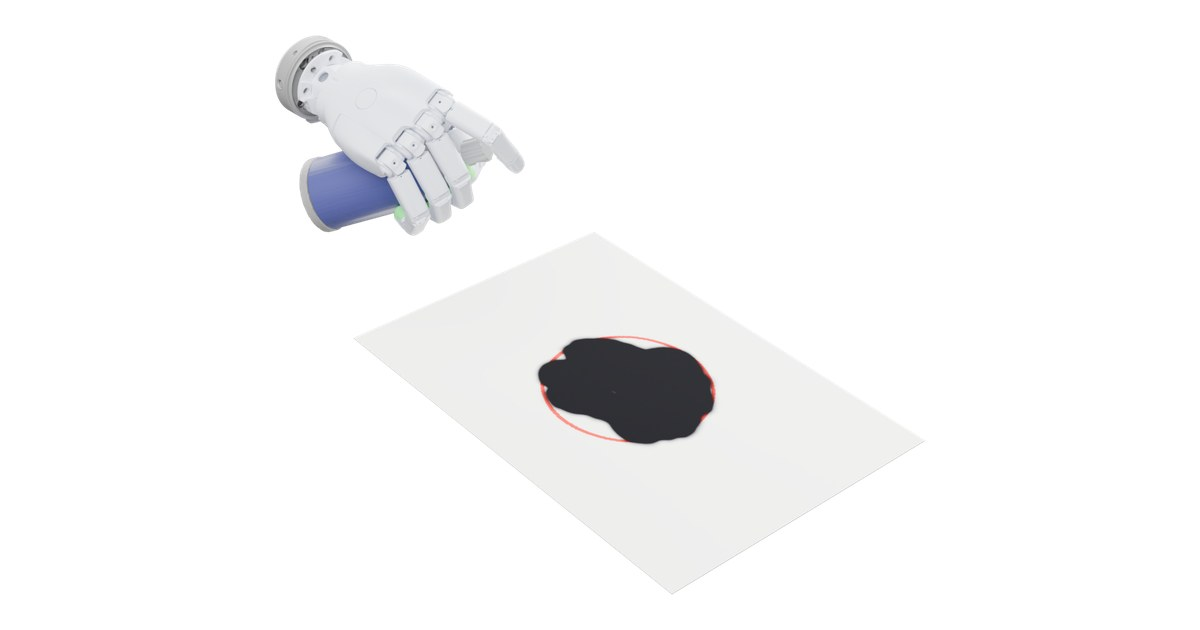
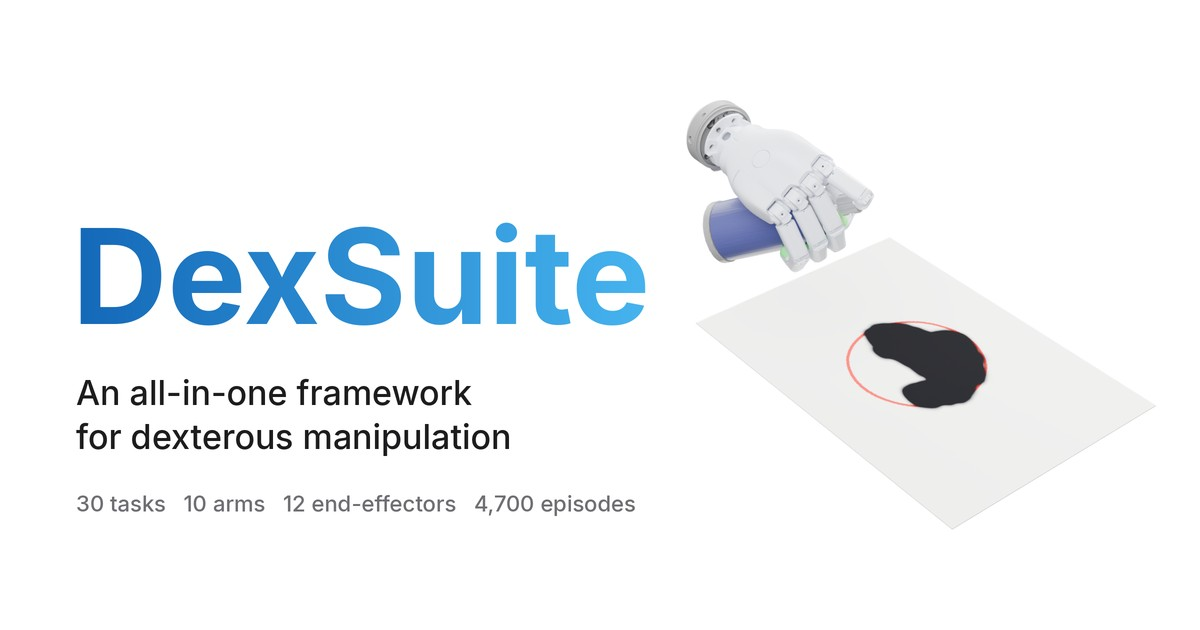
Link preview card (1200x630, wordmark + Sharpa render) with Open Graph and Twitter large-image tags; load-in: first hero frame preloaded at high priority, intro rises in once it and Inter are ready, hero frames stream coarse to fine six at a time, robot stills lazy and the Franka fly-in frames load 

diff --git a/index.html b/index.html
@@ -5,14 +5,24 @@
 <meta name="viewport" content="width=device-width, initial-scale=1">
 <title>DexSuite: An All-in-One Framework for Dexterous Manipulation Across Arms, Hands, and Tasks</title>
 <meta name="description" content="DexSuite: An All-in-One Framework for Dexterous Manipulation Across Arms, Hands, and Tasks. 30 tasks, 10 arms, 12 end-effectors, 16 benchmark task-embodiment pairs, 4,700 episodes.">
+<meta name="theme-color" content="#ffffff">
+<meta property="og:type" content="website">
+<meta property="og:url" content="https://dexsuiteorg.github.io/">
 <meta property="og:title" content="DexSuite">
-<meta property="og:description" content="An all-in-one simulation framework for dexterous manipulation.">
+<meta property="og:description" content="An all-in-one simulation framework for dexterous manipulation. 30 tasks, 10 arms, 12 end-effectors, 4,700 episodes.">
 <meta property="og:image" content="https://dexsuiteorg.github.io/v2/assets/og.jpg">
+<meta property="og:image:width" content="1200"><meta property="og:image:height" content="630">
+<meta property="og:image:alt" content="DexSuite: a Sharpa hand spray-paints a stencil">
+<meta name="twitter:card" content="summary_large_image">
+<meta name="twitter:title" content="DexSuite">
+<meta name="twitter:description" content="An all-in-one simulation framework for dexterous manipulation.">
+<meta name="twitter:image" content="https://dexsuiteorg.github.io/v2/assets/og.jpg">
 <link rel="icon" href="static/images/favicon.svg">
 <link rel="preconnect" href="https://fonts.googleapis.com"><link rel="preconnect" href="https://fonts.gstatic.com" crossorigin>
 <link href="https://fonts.googleapis.com/css2?family=Inter:wght@400;500;600;700&display=swap" rel="stylesheet">
+<link rel="preload" as="image" href="v2/assets/hero/scene/f0000.webp" fetchpriority="high">
 <link rel="stylesheet" href="v2/site.css">
-<script>window.V2 = {"hero": {"n": 239, "dir": "v2/assets/hero/scene"}, "phases": {"own": ["Robots", "Every arm.", "Robots that come with their own gripper run every task as they are."], "arm": ["Modular arms", "Every arm.", "Modular arms take any end-effector. Here, each one carries the same Robotiq 2F-85."], "hand": ["End-effectors", "Every hand.", "And every end-effector mounts on the same arm, from parallel-jaw grippers to a 22-joint hand."]}, "zoom": {"n": 40, "dir": "v2/assets/robots/zoom"}};</script>
+<script>document.documentElement.classList.add('js'); window.V2 = {"hero": {"n": 239, "dir": "v2/assets/hero/scene"}, "phases": {"own": ["Robots", "Every arm.", "Robots that come with their own gripper run every task as they are."], "arm": ["Modular arms", "Every arm.", "Modular arms take any end-effector. Here, each one carries the same Robotiq 2F-85."], "hand": ["End-effectors", "Every hand.", "And every end-effector mounts on the same arm, from parallel-jaw grippers to a 22-joint hand."]}, "zoom": {"n": 40, "dir": "v2/assets/robots/zoom"}};</script>
 <script defer src="v2/site.js"></script>
 </head>
 <body>
@@ -57,25 +67,25 @@
 <ul class="hand-list" data-phase="hand" hidden><li data-i="9">Robotiq 2F-85</li><li data-i="10">UMI gripper</li><li data-i="11">BarrettHand</li><li data-i="12">D&#x27;Claw</li><li data-i="13">Inspire Hand</li><li data-i="14">Ability Hand</li><li data-i="15">Schunk SVH</li><li data-i="16">Allegro Hand</li><li data-i="17">LEAP Hand</li><li data-i="18">Sharpa Hand</li></ul>
       <div class="counter">01 / 19</div>
     </div>
-    <div class="stage"><img src="v2/assets/robots/ib_so_100.webp" data-name="SO-100" data-kind="Built-in gripper" data-phase="own" alt="SO-100" style=opacity:1>
-<img src="v2/assets/robots/ib_aloha_tactile.webp" data-name="ALOHA" data-kind="Built-in gripper with tactile pads" data-phase="own" alt="ALOHA">
-<img src="v2/assets/robots/ib_gen3_lite.webp" data-name="Kinova Gen3 Lite" data-kind="Built-in gripper" data-phase="own" alt="Kinova Gen3 Lite">
-<img src="v2/assets/robots/ib_trossen_vx300s.webp" data-name="Trossen ViperX 300 S" data-kind="Built-in gripper" data-phase="own" alt="Trossen ViperX 300 S">
-<img src="v2/assets/robots/ib_trossen_wx250s.webp" data-name="Trossen WidowX 250 S" data-kind="Built-in gripper" data-phase="own" alt="Trossen WidowX 250 S">
-<img src="v2/assets/robots/rb_ur5.webp" data-name="UR5e" data-kind="With a Robotiq 2F-85" data-phase="arm" alt="UR5e">
-<img src="v2/assets/robots/rb_ur10.webp" data-name="UR10e" data-kind="With a Robotiq 2F-85" data-phase="arm" alt="UR10e">
-<img src="v2/assets/robots/rb_gen3.webp" data-name="Kinova Gen3" data-kind="With a Robotiq 2F-85" data-phase="arm" alt="Kinova Gen3">
-<img src="v2/assets/robots/rb_franka.webp" data-name="Franka Panda" data-kind="With a Robotiq 2F-85" data-phase="arm" alt="Franka Panda" data-zoom=1>
-<img src="v2/assets/robots/ee_robotiq.webp" data-name="Robotiq 2F-85" data-kind="Parallel-jaw gripper" data-phase="hand" alt="Robotiq 2F-85">
-<img src="v2/assets/robots/ee_franka_umi_tacticle.webp" data-name="UMI gripper" data-kind="Parallel-jaw gripper with FlexiTac pads" data-phase="hand" alt="UMI gripper">
-<img src="v2/assets/robots/ee_barrett.webp" data-name="BarrettHand" data-kind="3 fingers, 8 DoF" data-phase="hand" alt="BarrettHand">
-<img src="v2/assets/robots/ee_dclaw.webp" data-name="D&#x27;Claw" data-kind="3 fingers, 9 DoF" data-phase="hand" alt="D&#x27;Claw">
-<img src="v2/assets/robots/ee_inspire.webp" data-name="Inspire Hand" data-kind="5 fingers, 6 DoF" data-phase="hand" alt="Inspire Hand">
-<img src="v2/assets/robots/ee_ability.webp" data-name="Ability Hand" data-kind="5 fingers, 6 DoF" data-phase="hand" alt="Ability Hand">
-<img src="v2/assets/robots/ee_schunk.webp" data-name="Schunk SVH" data-kind="5 fingers, 9 DoF" data-phase="hand" alt="Schunk SVH">
-<img src="v2/assets/robots/ee_allegro.webp" data-name="Allegro Hand" data-kind="4 fingers, 16 DoF" data-phase="hand" alt="Allegro Hand">
-<img src="v2/assets/robots/ee_leap.webp" data-name="LEAP Hand" data-kind="4 fingers, 16 DoF" data-phase="hand" alt="LEAP Hand">
-<img src="v2/assets/robots/ee_sharpa.webp" data-name="Sharpa Hand" data-kind="5 fingers, 22 DoF" data-phase="hand" alt="Sharpa Hand"><canvas aria-hidden="true"></canvas><div class="tag"><b>SO-100</b><span>Built-in gripper</span></div></div>
+    <div class="stage"><img src="v2/assets/robots/ib_so_100.webp" data-name="SO-100" data-kind="Built-in gripper" data-phase="own" alt="SO-100" loading="lazy" decoding="async" style=opacity:1>
+<img src="v2/assets/robots/ib_aloha_tactile.webp" data-name="ALOHA" data-kind="Built-in gripper with tactile pads" data-phase="own" alt="ALOHA" loading="lazy" decoding="async">
+<img src="v2/assets/robots/ib_gen3_lite.webp" data-name="Kinova Gen3 Lite" data-kind="Built-in gripper" data-phase="own" alt="Kinova Gen3 Lite" loading="lazy" decoding="async">
+<img src="v2/assets/robots/ib_trossen_vx300s.webp" data-name="Trossen ViperX 300 S" data-kind="Built-in gripper" data-phase="own" alt="Trossen ViperX 300 S" loading="lazy" decoding="async">
+<img src="v2/assets/robots/ib_trossen_wx250s.webp" data-name="Trossen WidowX 250 S" data-kind="Built-in gripper" data-phase="own" alt="Trossen WidowX 250 S" loading="lazy" decoding="async">
+<img src="v2/assets/robots/rb_ur5.webp" data-name="UR5e" data-kind="With a Robotiq 2F-85" data-phase="arm" alt="UR5e" loading="lazy" decoding="async">
+<img src="v2/assets/robots/rb_ur10.webp" data-name="UR10e" data-kind="With a Robotiq 2F-85" data-phase="arm" alt="UR10e" loading="lazy" decoding="async">
+<img src="v2/assets/robots/rb_gen3.webp" data-name="Kinova Gen3" data-kind="With a Robotiq 2F-85" data-phase="arm" alt="Kinova Gen3" loading="lazy" decoding="async">
+<img src="v2/assets/robots/rb_franka.webp" data-name="Franka Panda" data-kind="With a Robotiq 2F-85" data-phase="arm" alt="Franka Panda" loading="lazy" decoding="async" data-zoom=1>
+<img src="v2/assets/robots/ee_robotiq.webp" data-name="Robotiq 2F-85" data-kind="Parallel-jaw gripper" data-phase="hand" alt="Robotiq 2F-85" loading="lazy" decoding="async">
+<img src="v2/assets/robots/ee_franka_umi_tacticle.webp" data-name="UMI gripper" data-kind="Parallel-jaw gripper with FlexiTac pads" data-phase="hand" alt="UMI gripper" loading="lazy" decoding="async">
+<img src="v2/assets/robots/ee_barrett.webp" data-name="BarrettHand" data-kind="3 fingers, 8 DoF" data-phase="hand" alt="BarrettHand" loading="lazy" decoding="async">
+<img src="v2/assets/robots/ee_dclaw.webp" data-name="D&#x27;Claw" data-kind="3 fingers, 9 DoF" data-phase="hand" alt="D&#x27;Claw" loading="lazy" decoding="async">
+<img src="v2/assets/robots/ee_inspire.webp" data-name="Inspire Hand" data-kind="5 fingers, 6 DoF" data-phase="hand" alt="Inspire Hand" loading="lazy" decoding="async">
+<img src="v2/assets/robots/ee_ability.webp" data-name="Ability Hand" data-kind="5 fingers, 6 DoF" data-phase="hand" alt="Ability Hand" loading="lazy" decoding="async">
+<img src="v2/assets/robots/ee_schunk.webp" data-name="Schunk SVH" data-kind="5 fingers, 9 DoF" data-phase="hand" alt="Schunk SVH" loading="lazy" decoding="async">
+<img src="v2/assets/robots/ee_allegro.webp" data-name="Allegro Hand" data-kind="4 fingers, 16 DoF" data-phase="hand" alt="Allegro Hand" loading="lazy" decoding="async">
+<img src="v2/assets/robots/ee_leap.webp" data-name="LEAP Hand" data-kind="4 fingers, 16 DoF" data-phase="hand" alt="LEAP Hand" loading="lazy" decoding="async">
+<img src="v2/assets/robots/ee_sharpa.webp" data-name="Sharpa Hand" data-kind="5 fingers, 22 DoF" data-phase="hand" alt="Sharpa Hand" loading="lazy" decoding="async"><canvas aria-hidden="true"></canvas><div class="tag"><b>SO-100</b><span>Built-in gripper</span></div></div>
   </div>
 </section>
 
@@ -179,7 +189,7 @@
 <footer><div class="wrap center">
   <h2 class="headline md">DexSuite</h2>
   <div class="ctas" style="justify-content:center"><span class="pill big disabled">Paper, coming soon</span><span class="pill big disabled">Code, coming soon</span><a class="pill big" href="https://huggingface.co/dexsuite" target="_blank" rel="noopener">Data</a></div>
-  <div class="logos"><img src="static/images/partners_logo/mcgill.png" alt="McGill University"><img src="static/images/partners_logo/mila.png" alt="Mila"><img src="static/images/partners_logo/hf.png" alt="Hugging Face"><img class="sm" src="static/images/partners_logo/kinova.png" alt="Kinova"><img class="sm" src="static/images/partners_logo/manus.webp" alt="Manus"></div>
+  <div class="logos"><img loading="lazy" src="static/images/partners_logo/mcgill.png" alt="McGill University"><img loading="lazy" src="static/images/partners_logo/mila.png" alt="Mila"><img loading="lazy" src="static/images/partners_logo/hf.png" alt="Hugging Face"><img class="sm" src="static/images/partners_logo/kinova.png" alt="Kinova"><img class="sm" src="static/images/partners_logo/manus.webp" alt="Manus"></div>
   <pre class="bib">@article{dexsuite2026,
   author  = {Anonymous},
   title   = {DexSuite: An All-in-One Framework for Dexterous Manipulation Across Arms, Hands, and Tasks},

diff --git a/v2/site.js b/v2/site.js
@@ -20,17 +20,38 @@
   // ------------------------------------------------------------------ hero: one fixed camera on hand, can and paper, scrubbed by scroll
   var hero = $('#hero'), canvas = $('#hero canvas'), ctx = canvas && canvas.getContext('2d');
   var frames = { im: [], ok: [] }, lastDrawn = -1, heroWant = 0;
+  // coarse to fine (every 16th frame first), a few requests at a time so the first frames are not queued behind the rest
   function loadFrames() {
-    var order = [];
+    var order = [], next = 0, busy = 0;
     for (var s2 = 16; s2 >= 1; s2 = Math.floor(s2 / 2)) for (var i = 0; i < V2.hero.n; i += s2) if (order.indexOf(i) < 0) order.push(i);
-    order.forEach(function (i) {
+    function pump() {
+      while (busy < 6 && next < order.length) start(order[next++]);
+    }
+    function start(i) {
       var im = new Image();
+      busy++;
       im.decoding = 'async';
-      im.onload = function () { frames.ok[i] = true; if (lastDrawn < 0 || i === heroWant) draw(true); };
+      im.onload = function () {
+        busy--;
+        frames.ok[i] = true;
+        if (i === 0) firstFrame();
+        if (lastDrawn < 0 || i === heroWant) draw(true);
+        pump();
+      };
+      im.onerror = function () { busy--; pump(); };
       im.src = V2.hero.dir + '/f' + String(i).padStart(4, '0') + '.webp';
       frames.im[i] = im;
-    });
+    }
+    pump();
   }
+  // the intro plays once the first frame is decoded and Inter is in (or after 1.8 s, whatever comes first)
+  var gotFrame = false, gotFont = false;
+  function firstFrame() { gotFrame = true; intro(); }
+  function intro(force) {
+    if (force || (gotFrame && gotFont)) requestAnimationFrame(function () { document.documentElement.classList.add('ready'); });
+  }
+  if (document.fonts && document.fonts.ready) document.fonts.ready.then(function () { gotFont = true; intro(); }); else gotFont = true;
+  setTimeout(function () { intro(true); }, 1800);
   function sizeCanvas() {
     var dpr = Math.min(window.devicePixelRatio || 1, 2);
     canvas.width = Math.round(canvas.clientWidth * dpr);
@@ -68,7 +89,7 @@
     var bar = $('.progress i');
     if (bar) bar.style.width = (p * 100).toFixed(1) + '%';
     var hint = $('.scroll-hint');
-    if (hint) { hint.style.opacity = p > 0.03 ? 0 : 1; hint.style.pointerEvents = p > 0.03 ? 'none' : ''; }
+    if (hint) { hint.style.opacity = p > 0.03 ? 0 : ''; hint.style.pointerEvents = p > 0.03 ? 'none' : ''; }
   }
 
   // ------------------------------------------------------------------ statement: words light up as it scrolls by
@@ -92,12 +113,18 @@
     imgs.forEach(function (im, j) { if (im.dataset.zoom) zi = j; });
     for (var j = 0; j < n - 1; j++) { w.push(j === zi ? 2.4 : 1); tot += w[j]; }
     var cv = $('.stage canvas', sec), zf = [];
-    for (var k = 0; zi >= 0 && k < V2.zoom.n; k++) {
-      var im = new Image();
-      im.decoding = 'async';
-      im.src = V2.zoom.dir + '/z' + String(k).padStart(2, '0') + '.webp';
-      zf.push(im);
-    }
+    // the fly-in frames load once the section is within a screen and a half
+    var near = new IntersectionObserver(function (en) {
+      if (!en[0].isIntersecting) return;
+      near.disconnect();
+      for (var k = 0; zi >= 0 && k < V2.zoom.n; k++) {
+        var im = new Image();
+        im.decoding = 'async';
+        im.src = V2.zoom.dir + '/z' + String(k).padStart(2, '0') + '.webp';
+        zf.push(im);
+      }
+    }, { rootMargin: '150% 0px' });
+    near.observe(sec);
     R = { sec: sec, imgs: imgs, n: n, zi: zi, w: w, tot: tot + 0.6, cv: cv, cx: cv.getContext('2d'), zf: zf,
           p: -1, raf: 0, last: 0, phase: 'own', label: 0, zk: -1 };
   }
@@ -137,7 +164,7 @@
     while (j < R.n - 2 && f > R.w[j]) { f -= R.w[j]; j++; }
     var t = clamp(f / R.w[j], 0, 1), fly = j === R.zi;
     var k = fly ? smooth(clamp((t - 0.15) / 0.85, 0, 1)) : smooth(clamp((t - 0.42) / 0.58, 0, 1));
-    fly = fly && zoomFrame(Math.round(k * (R.zf.length - 1)));
+    fly = fly && R.zf.length > 0 && zoomFrame(Math.round(k * (R.zf.length - 1)));
     R.cv.style.opacity = fly ? 1 : 0;
     // hands share the camera and the arm: a pure (additive) dissolve keeps the arm still; other robots drift sideways
     var same = R.imgs[j].dataset.phase === 'hand' && R.imgs[j + 1].dataset.phase === 'hand';

diff --git a/v2/site.css b/v2/site.css
@@ -215,3 +215,19 @@ pre.bib { background: #fff; border-radius: 16px; padding: 22px; font-size: 13px;
 .pill.disabled-ghost { color: var(--ink-3) !important; border-color: var(--mute); cursor: default; }
 .hand-list[hidden] { display: none; }
 #hero canvas { background: #fff; }
+
+/* load-in: nothing pops; the wordmark, lines and buttons rise in once the first hero frame and the font are ready */
+.js .hero-copy h1, .js .hero-lines, .js .hero-ctas, .js .scroll-hint, .js .nav {
+  opacity: 0; transition: opacity 1.1s cubic-bezier(.2, .7, .2, 1), transform 1.1s cubic-bezier(.2, .7, .2, 1); }
+.js .hero-copy h1, .js .hero-lines, .js .hero-ctas { transform: translateY(26px); }
+.js #hero canvas { opacity: 0; transform: scale(.975); transition: opacity 1.4s ease, transform 1.8s cubic-bezier(.2, .7, .2, 1); }
+.ready .hero-copy h1, .ready .hero-lines, .ready .hero-ctas, .ready .nav, .ready #hero canvas { opacity: 1; transform: none; }
+.ready .scroll-hint { opacity: 1; }
+.ready .hero-lines { transition-delay: .12s; }
+.ready .hero-ctas { transition-delay: .24s; }
+.ready #hero canvas { transition-delay: .1s; }
+.ready .scroll-hint { transition-delay: 1s; }
+.js .nav { transition-delay: .3s; }
+@media (prefers-reduced-motion: reduce) {
+  .js .hero-copy h1, .js .hero-lines, .js .hero-ctas, .js #hero canvas { transform: none; transition: opacity .4s; }
+}

diff --git a/v2/tools/build_v2.py b/v2/tools/build_v2.py
@@ -99,7 +99,7 @@ PHASES = {"own": ("Robots", "Every arm.", "Robots that come with their own gripp
           "arm": ("Modular arms", "Every arm.", "Modular arms take any end-effector. Here, each one carries the same Robotiq 2F-85."),
           "hand": ("End-effectors", "Every hand.", "And every end-effector mounts on the same arm, from parallel-jaw grippers to a 22-joint hand.")}
 robot_imgs = "\n".join(
-    f'<img src="assets/robots/{a}.webp" data-name="{esc(n)}" data-kind="{esc(k)}" data-phase="{ph}" alt="{esc(n)}"'
+    f'<img src="assets/robots/{a}.webp" data-name="{esc(n)}" data-kind="{esc(k)}" data-phase="{ph}" alt="{esc(n)}" loading="lazy" decoding="async"'
     f'{" data-zoom=1" if a == "rb_franka" else ""}{" style=opacity:1" if i == 0 else ""}>'
     for i, (a, n, k, ph) in enumerate(ROBOTS))
 robot_lists = "\n".join(
@@ -135,14 +135,24 @@ page = f"""<!DOCTYPE html>
 <meta name="viewport" content="width=device-width, initial-scale=1">
 <title>{esc(TITLE)}</title>
 <meta name="description" content="{esc(TITLE)}. {N_TASKS} tasks, {ARMS} arms, {EFFECTORS} end-effectors, {PAIRS} benchmark task-embodiment pairs, {EPISODES} episodes.">
+<meta name="theme-color" content="#ffffff">
+<meta property="og:type" content="website">
+<meta property="og:url" content="https://dexsuiteorg.github.io/">
 <meta property="og:title" content="DexSuite">
-<meta property="og:description" content="An all-in-one simulation framework for dexterous manipulation.">
+<meta property="og:description" content="An all-in-one simulation framework for dexterous manipulation. {N_TASKS} tasks, {ARMS} arms, {EFFECTORS} end-effectors, {EPISODES} episodes.">
 <meta property="og:image" content="https://dexsuiteorg.github.io/v2/assets/og.jpg">
+<meta property="og:image:width" content="1200"><meta property="og:image:height" content="630">
+<meta property="og:image:alt" content="DexSuite: a Sharpa hand spray-paints a stencil">
+<meta name="twitter:card" content="summary_large_image">
+<meta name="twitter:title" content="DexSuite">
+<meta name="twitter:description" content="An all-in-one simulation framework for dexterous manipulation.">
+<meta name="twitter:image" content="https://dexsuiteorg.github.io/v2/assets/og.jpg">
 <link rel="icon" href="../static/images/favicon.svg">
 <link rel="preconnect" href="https://fonts.googleapis.com"><link rel="preconnect" href="https://fonts.gstatic.com" crossorigin>
 <link href="https://fonts.googleapis.com/css2?family=Inter:wght@400;500;600;700&display=swap" rel="stylesheet">
+<link rel="preload" as="image" href="assets/hero/scene/f0000.webp" fetchpriority="high">
 <link rel="stylesheet" href="site.css">
-<script>window.V2 = {json.dumps({"hero": {"n": hero_n, "dir": "assets/hero/scene"}, "phases": {k: list(v) for k, v in PHASES.items()}, "zoom": {"n": 40, "dir": "assets/robots/zoom"}})};</script>
+<script>document.documentElement.classList.add('js'); window.V2 = {json.dumps({"hero": {"n": hero_n, "dir": "assets/hero/scene"}, "phases": {k: list(v) for k, v in PHASES.items()}, "zoom": {"n": 40, "dir": "assets/robots/zoom"}})};</script>
 <script defer src="site.js"></script>
 </head>
 <body>
@@ -261,7 +271,7 @@ page = f"""<!DOCTYPE html>
 <footer><div class="wrap center">
   <h2 class="headline md">DexSuite</h2>
   <div class="ctas" style="justify-content:center"><span class="pill big disabled">Paper, coming soon</span><span class="pill big disabled">Code, coming soon</span><a class="pill big" href="{HF}" target="_blank" rel="noopener">Data</a></div>
-  <div class="logos"><img src="../static/images/partners_logo/mcgill.png" alt="McGill University"><img src="../static/images/partners_logo/mila.png" alt="Mila"><img src="../static/images/partners_logo/hf.png" alt="Hugging Face"><img class="sm" src="../static/images/partners_logo/kinova.png" alt="Kinova"><img class="sm" src="../static/images/partners_logo/manus.webp" alt="Manus"></div>
+  <div class="logos"><img loading="lazy" src="../static/images/partners_logo/mcgill.png" alt="McGill University"><img loading="lazy" src="../static/images/partners_logo/mila.png" alt="Mila"><img loading="lazy" src="../static/images/partners_logo/hf.png" alt="Hugging Face"><img class="sm" src="../static/images/partners_logo/kinova.png" alt="Kinova"><img class="sm" src="../static/images/partners_logo/manus.webp" alt="Manus"></div>
   <pre class="bib">{esc(bib)}</pre>
   <p class="fine">Every robot and object on this page is a Blender Cycles render of a recorded DexSuite episode, replayed open-loop from the dataset.</p>
 </div></footer>
@@ -273,7 +283,7 @@ page = f"""<!DOCTYPE html>
 def at_root(page):
     """The page is written with v2/-relative paths; the site root serves it, so point them into v2/ and static/."""
     for a, c in (('src="assets/', 'src="v2/assets/'), ('poster="assets/', 'poster="v2/assets/'), ('"dir": "assets/', '"dir": "v2/assets/'),
-                 ('href="site.css"', 'href="v2/site.css"'), ('src="site.js"', 'src="v2/site.js"'), ('href="data.html"', 'href="v2/data.html"'),
+                 ('href="assets/', 'href="v2/assets/'), ('href="site.css"', 'href="v2/site.css"'), ('src="site.js"', 'src="v2/site.js"'), ('href="data.html"', 'href="v2/data.html"'),
                  ('"../static/', '"static/')):
         page = page.replace(a, c)
     assert "../" not in page and '"assets/' not in page, "a v2-relative path is left in the root page"

diff --git a/v2/tools/encode_assets.py b/v2/tools/encode_assets.py
@@ -112,6 +112,38 @@ def hero_scene(size=1200):
     print(f"hero scene: {k} new, {len(list(out.glob('*.webp')))}/{n_frames('hero_scene')}")
 
 
+FONTS = Path("/efs/projects/fudi/scripts/analysis/hoir_pipeline_figure/fonts")
+
+
+def og_card(frame=200):
+    """1200x630 link preview: the wordmark in DexSuite blue, one line, the Sharpa hand mid-spray."""
+    from PIL import ImageDraw, ImageFont
+    S = 2                                             # draw at 2x, downsample
+    W, H = 1200 * S, 630 * S
+    card = Image.new("RGBA", (W, H), (255, 255, 255, 255))
+    im = Image.open(FR / "hero_scene" / f"f{frame:04d}.png").convert("RGBA")
+    im = im.crop(im.getchannel("A").point(lambda a: 255 if a > 8 else 0).getbbox())
+    k = min(540 * S / im.height, 470 * S / im.width)   # right of the text block, never under it
+    im = im.resize((round(im.width * k), round(im.height * k)), Image.LANCZOS)
+    card.alpha_composite(im, (W - im.width - 44 * S, (H - im.height) // 2))
+    big = ImageFont.truetype(str(FONTS / "Inter-Bold.ttf"), 132 * S)
+    mask = Image.new("L", (W, H), 0)
+    ImageDraw.Draw(mask).text((72 * S, 196 * S), "DexSuite", font=big, fill=255)
+    grad = np.zeros((H, W, 3), np.float32)
+    t = np.clip((np.arange(W) - 72 * S) / (560 * S), 0, 1)[None, :, None]
+    c0, c1 = np.array([0x14, 0x68, 0xb8], np.float32), np.array([0x45, 0xb2, 0xee], np.float32)
+    grad[:] = c0 + (c1 - c0) * t
+    card.paste(Image.fromarray(grad.astype(np.uint8)), (0, 0), mask)
+    d = ImageDraw.Draw(card)
+    med = ImageFont.truetype(str(FONTS / "Inter-Medium.ttf"), 34 * S)
+    d.text((76 * S, 372 * S), "An all-in-one framework", font=med, fill=(29, 29, 31))
+    d.text((76 * S, 416 * S), "for dexterous manipulation", font=med, fill=(29, 29, 31))
+    sm = ImageFont.truetype(str(FONTS / "Inter-Medium.ttf"), 22 * S)
+    d.text((76 * S, 490 * S), "30 tasks   10 arms   12 end-effectors   4,700 episodes", font=sm, fill=(110, 110, 115))
+    card.convert("RGB").resize((1200, 630), Image.LANCZOS).save(AS / "og.jpg", quality=90)
+    print("og card written")
+
+
 def hero_layers():
     """The hand and the paper as separate transparent sequences, composited by the page."""
     for layer, size in (("hand", (1400, 1050)), ("paper", (1280, 880))):
@@ -203,6 +235,7 @@ def thumbs():
 
 if __name__ == "__main__":
     hero_scene()
+    og_card()
     robots()
     zoom()
     thumbs()

diff --git a/v2/tools/shoot.py b/v2/tools/shoot.py
@@ -10,7 +10,7 @@ from playwright.sync_api import sync_playwright
 
 CHROME = "/efs/projects/fudi/.pw-browsers/chromium-1243/chrome-linux64/chrome"
 args = sys.argv[1:]
-url = args[0] if args and not args[0].startswith("--") else "http://localhost:8770/v2/"
+url = args[0] if args and not args[0].startswith("--") else "http://localhost:8770/"
 W = int(args[args.index("--w") + 1]) if "--w" in args else 1440
 H = int(args[args.index("--h") + 1]) if "--h" in args else 900
 out = Path(args[args.index("--out") + 1]) if "--out" in args else Path("/efs/projects/fudi/runs/website_update_20261023/shots/v2scroll")

diff --git a/v2/tools/shoot_robots.py b/v2/tools/shoot_robots.py
@@ -23,7 +23,7 @@ with sync_playwright() as pw:
     pg = b.new_page(viewport={"width": W, "height": H})
     logs = []
     pg.on("pageerror", lambda e: logs.append(f"pageerror: {e}"))
-    pg.goto("http://localhost:8770/v2/", wait_until="networkidle")
+    pg.goto("http://localhost:8770/", wait_until="networkidle")
     pg.wait_for_timeout(1500)
     top, span = pg.evaluate("(() => { const s = document.querySelector('#robots'); return [s.offsetTop, s.offsetHeight - innerHeight]; })()")
     for k in range(N):
